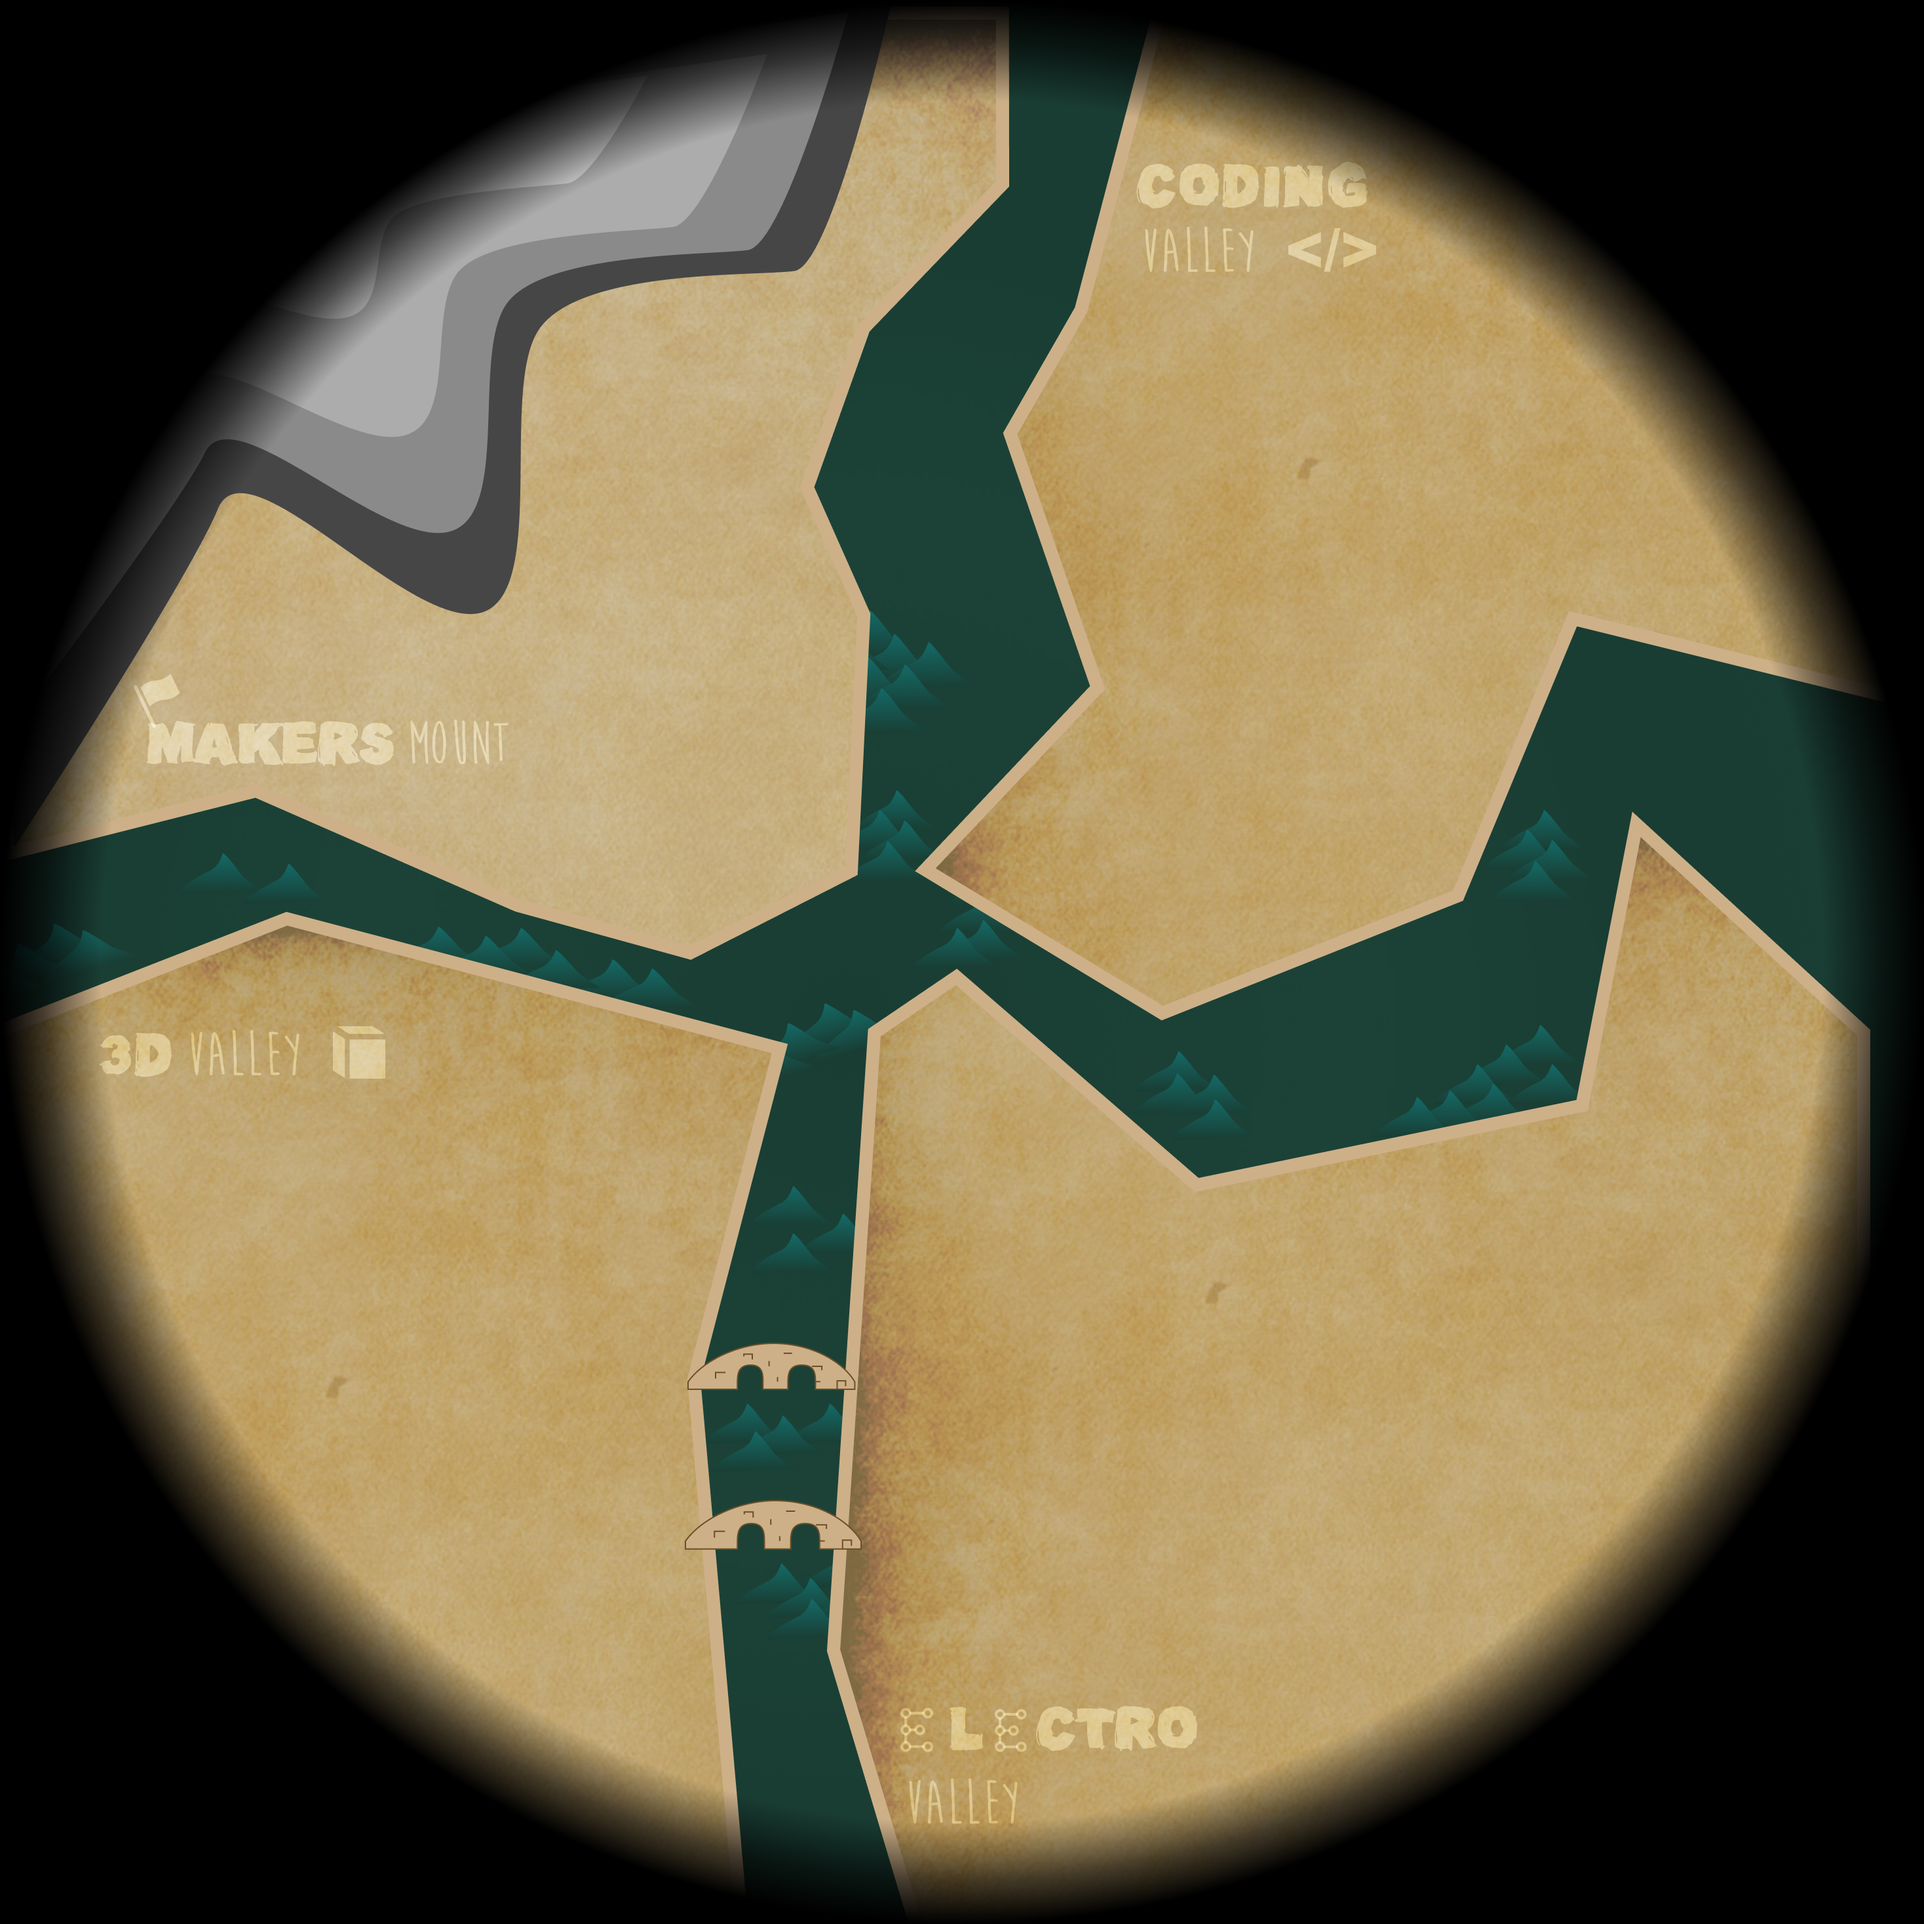
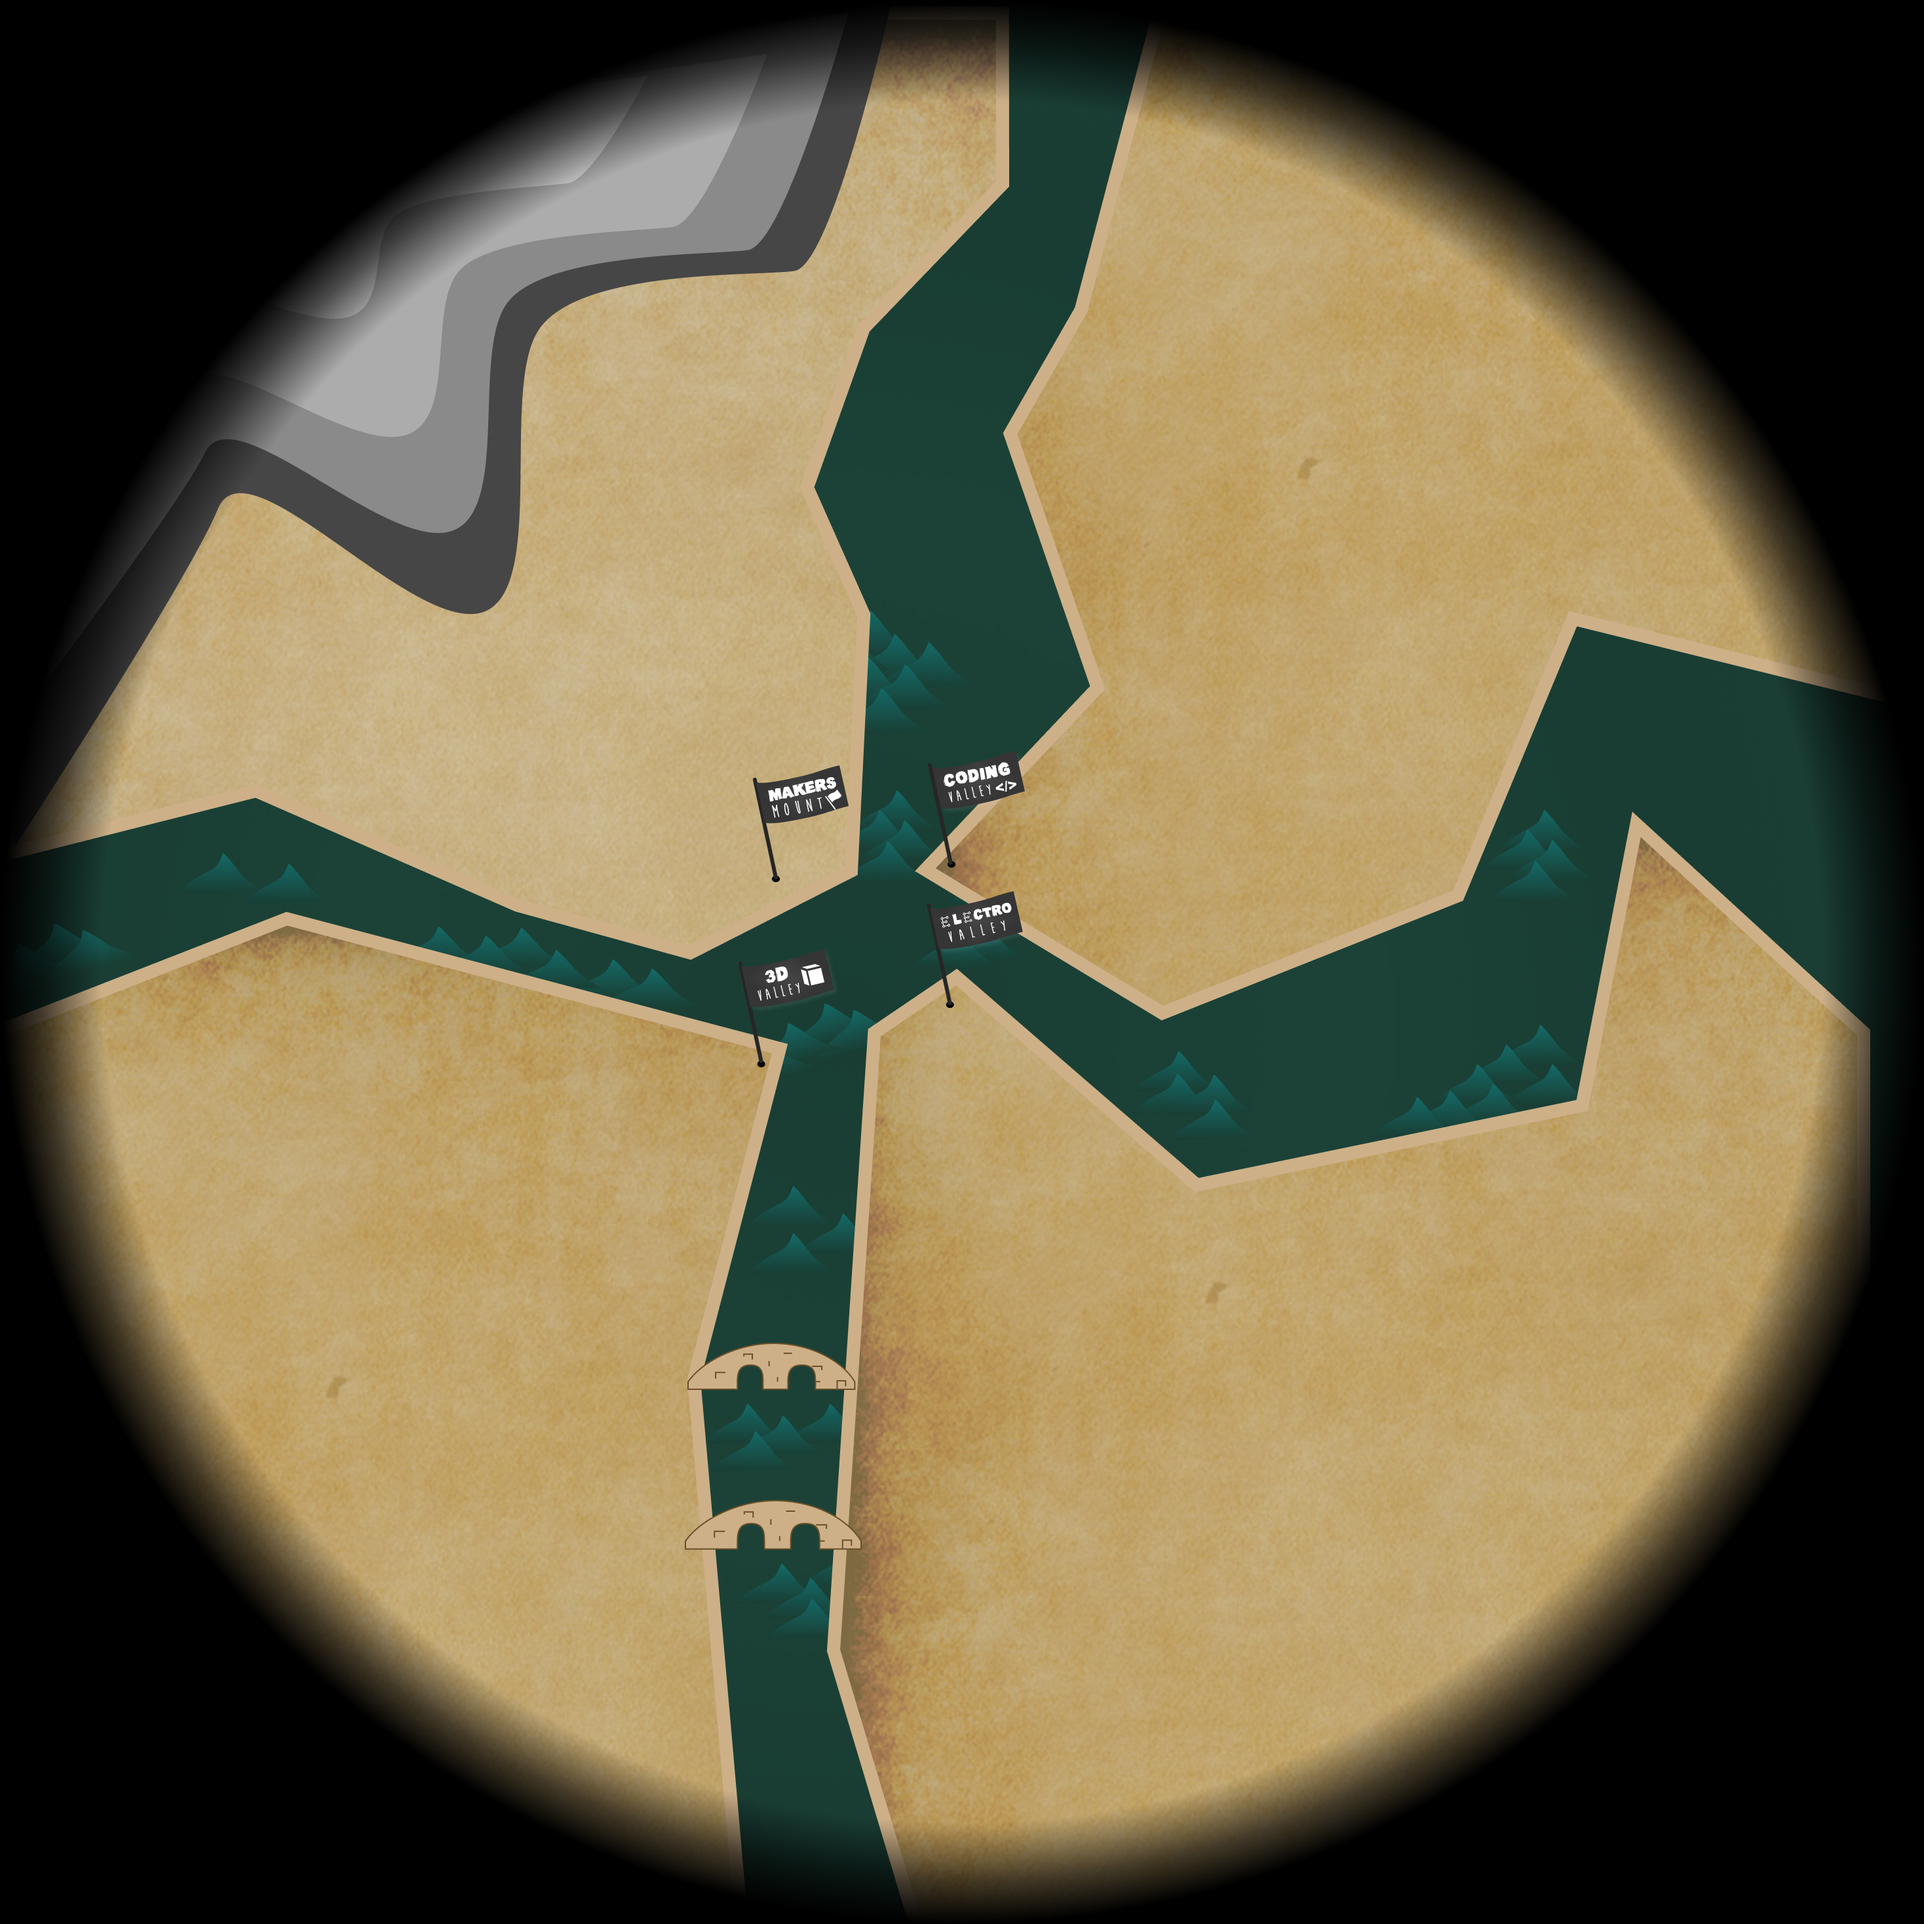
War fog and age improvements

diff --git a/app/src/scripts/_utils.js b/app/src/scripts/_utils.js
@@ -125,20 +125,21 @@ export const getRomanAge = (ageIndex) => {
 export const agesData = [
   {
     index: 0,
+    name: "Discovery",
+    image: null,
+    requirements: {
+      MakerMount: 2
+    }
+  },
+  {
+    index: 1,
     name: "Exploration",
     image: null,
     requirements: {
       Coding: 1,
       Electronics: 1,
-      ThreeD: 1
-    }
-  },
-  {
-    index: 1,
-    name: "Discovery",
-    image: null,
-    requirements: {
-      total: 5
+      ThreeD: 1,
+      total: 7
     }
   },
   {
@@ -167,23 +168,34 @@ export const agesData = [
 
 export const getAge = (quests) => {
   for (let i = 0; i < agesData.length; i++) {
-    let newArray = Object.keys(agesData[i].requirements).map( (valleyName) => {
+    let currentReqs = agesData[i].requirements;
+    let currentValues = Object.keys(currentReqs).map( (valleyName) => {
       if (valleyName === "total") {
-        if (typeof(agesData[i].requirements[valleyName]) === "string" && addComplete(quests, null, null) === addComplete(quests)){
+        if (typeof(currentReqs[valleyName]) === "string" && addComplete(quests, null, null) === addComplete(quests)){
           return "all";
         } else {
           return addComplete(quests);
         }
       } else {
-        if (typeof(agesData[i].requirements[valleyName]) === "string" && addComplete(quests, valleyName, null) === addComplete(quests, valleyName)){
+        if (typeof(currentReqs[valleyName]) === "string" && addComplete(quests, valleyName, null) === addComplete(quests, valleyName)){
           return "all";
         } else {
           return addComplete(quests, valleyName)
         }
       }
     });
-    if ( (newArray >= Object.values(agesData[i].requirements) && Object.values(agesData[i].requirements) !== -1) || newArray === Object.values(agesData[i].requirements)) {
-      // console.log("Passed Age:", agesData[i].name)
+    // console.log('Age check for', i, newArray, Object.values(currentReqs), (newArray >= Object.values(currentReqs) && Object.values(currentReqs) !== -1), newArray === Object.values(currentReqs));
+    let requirementsMet = true;
+    for(let j = 0; j < currentValues.length; j++) {
+      let currentReq = currentReqs[Object.keys(currentReqs)[j]];
+      let currentValue = currentValues[j];
+      if ((currentReq === 'all' && currentValue !== 'all') || (currentReq !== 'all' && currentValue < currentReq)) {
+        requirementsMet = false;
+      }
+    }
+
+    if (requirementsMet) {
+      console.log("Passed Age:", agesData[i].name)
       if (agesData[i].index + 1 === agesData.length) {
         // console.log("Returned Final Index!!!:", agesData[i].index)
         return(agesData[i])
@@ -192,7 +204,6 @@ export const getAge = (quests) => {
       // console.log("Failed Age:", agesData[i].name)
       // console.log("Returned Index:", agesData[i].index) Save above 4 lines of commented code to use for reference on a later feature
       return(agesData[i])
-      i = agesData.length
     }
   };
 };

diff --git a/app/src/scripts/game/components/leafletMap.jsx b/app/src/scripts/game/components/leafletMap.jsx
@@ -42,23 +42,26 @@ class Leaflet extends Component {
       if(this.props.quests) {
         return Object.keys(this.props.quests).map((questKey) => {
           let quest = this.props.quests[questKey];
-          let position = [100-quest.positionTop, quest.positionLeft];
-          let iconImg = new divIcon({
-            iconSize: [50, 65],
-            iconAnchor: position,
-            html: `<div class='pinWrapper ${quest.status} ${this.isUnlocked(quest) ? `${quest.valley}` : `locked`} ${quest.id}'>
-                    <div class='pin bounce'>
-                      <div class='inner ${this.isUnlocked(quest) ? `${quest.valley}` : `Locked`}'></div>
-                    </div>
-                    <div class='pulse'></div>
-                  </div>`
-          });
-          return <Marker
-            key={questKey}
-            icon={iconImg}
-            position={position} 
-            onClick={() => this.openQuest(questKey)}
-            />
+
+          if (getAge(this.props.quests).index >= quest.visibleAtAge) {
+            let position = [100-quest.positionTop, quest.positionLeft];
+            let iconImg = new divIcon({
+              iconSize: [50, 65],
+              iconAnchor: position,
+              html: `<div class='pinWrapper ${quest.status} ${this.isUnlocked(quest) ? `${quest.valley}` : `locked`} ${quest.id}'>
+                      <div class='pin bounce'>
+                        <div class='inner ${this.isUnlocked(quest) ? `${quest.valley}` : `Locked`}'></div>
+                      </div>
+                      <div class='pulse'></div>
+                    </div>`
+            });
+            return <Marker
+              key={questKey}
+              icon={iconImg}
+              position={position} 
+              onClick={() => this.openQuest(questKey)}
+              />
+          }
         });
       }
     }
@@ -80,7 +83,7 @@ class Leaflet extends Component {
             zoomDelta='0.25'>
             <ImageOverlay
               bounds={[[0,0], [100,100]]}
-              url='images/map.jpg'
+              url={`images/map-${(ageData.index < 2) ? ageData.index : 'all'}.jpg`}
             />
             <Marker
              class='tent'

diff --git a/app/src/aliases/index.js b/app/src/aliases/index.js
@@ -117,6 +117,11 @@ const getFullQuestWithAchievements = (callback) => {
 
           // Changing Quests status based on achievements
           for(let questId in quests) {
+            // Enforce the default "website" Quest type
+            if(quests[questId] && !quests[questId].type) {
+              quests[questId].type = 'website';
+            }
+
             if(quests[questId] && !quests[questId].status) {
               quests[questId].status = stageStatus.STATUS_NEW;
             }

diff --git a/app/src/scripts/game/components/game.jsx b/app/src/scripts/game/components/game.jsx
@@ -87,7 +87,7 @@ class Game extends Component {
                 </div>
                 <div
                   className="questName">
-                  To be in age { agePrereq.index + 1 }, the Age of { agePrereq.name }.
+                  To be in age { agePrereq.index + 1 }: Age of { agePrereq.name }.
                 </div>
               </div>
           }
